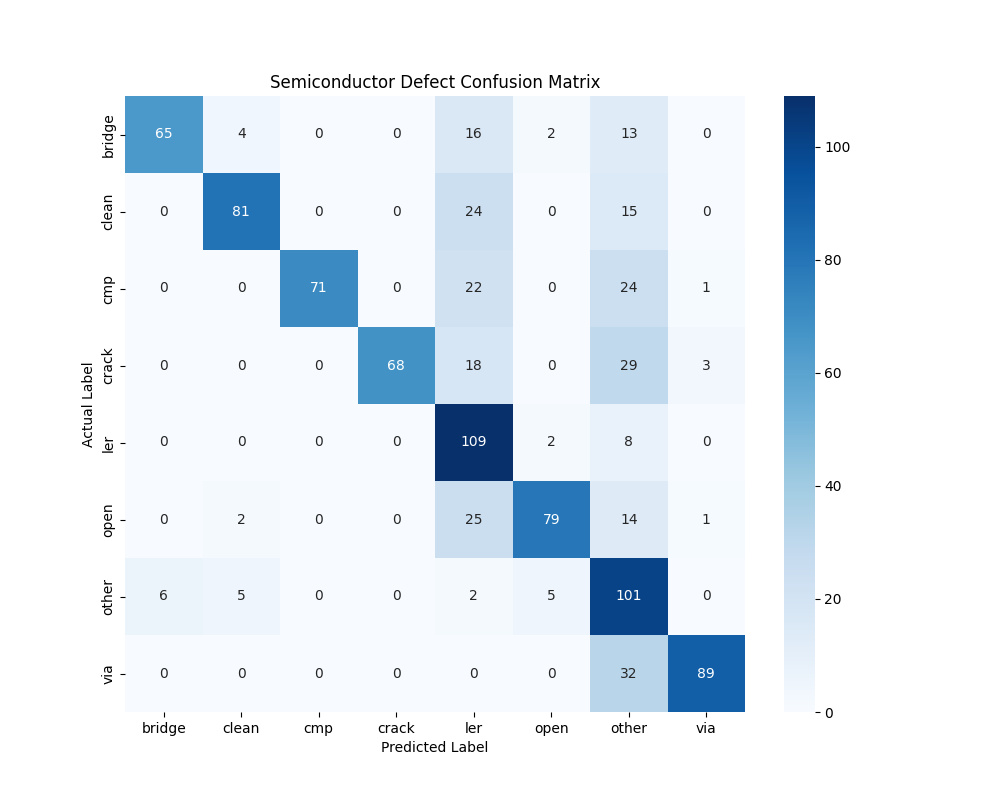
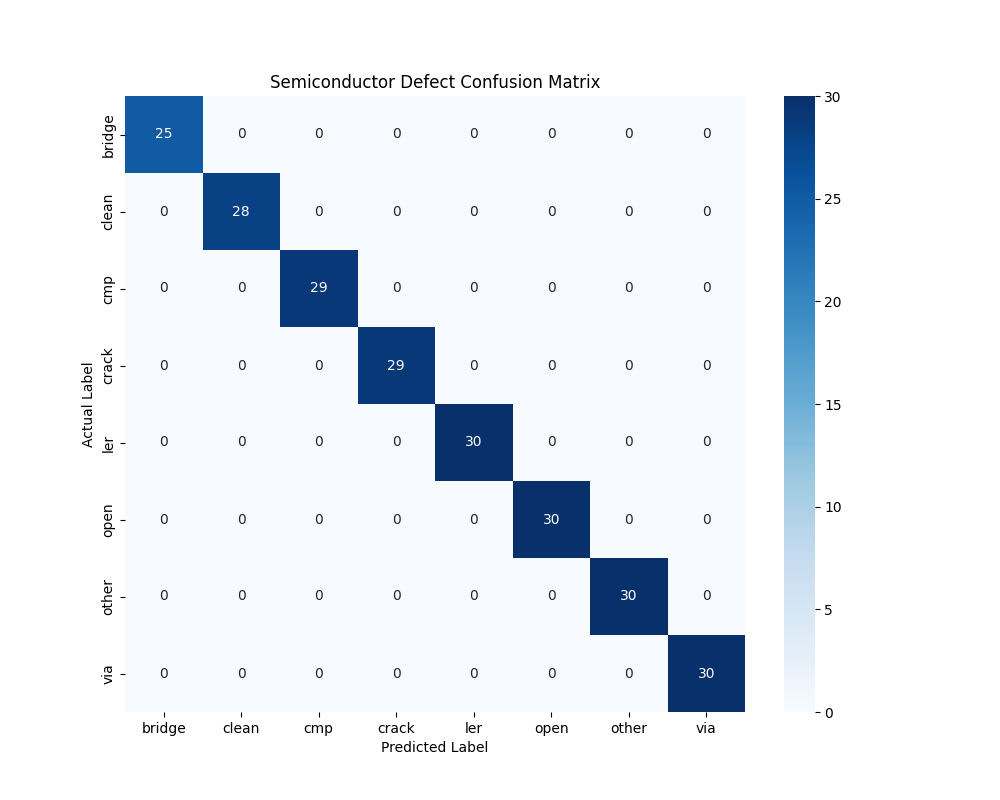
update : original test datapath with updated accuracy

diff --git a/evaluation/phase1_eval.py b/evaluation/phase1_eval.py
@@ -15,7 +15,7 @@ from evaluation.metrics import compute_metrics
 
 # --- CONFIG ---
 MODEL_PATH = "models/mobilenetv3_sem.onnx"
-DATASET_DIR = "dataset/test"
+DATASET_DIR = "dataset/1test"
 
 # FIXED: Must be ALPHABETICAL to match ImageFolder logic
 CLASSES = [
